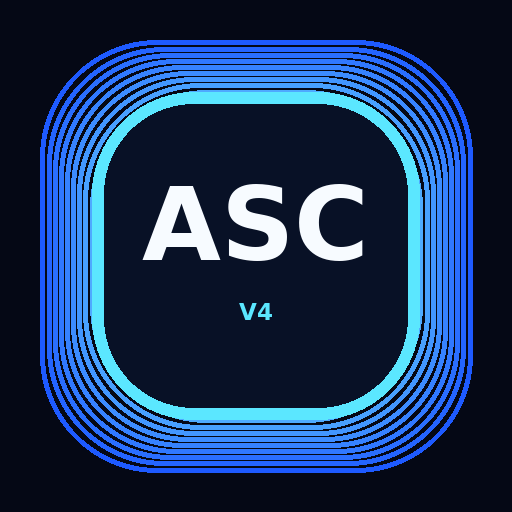
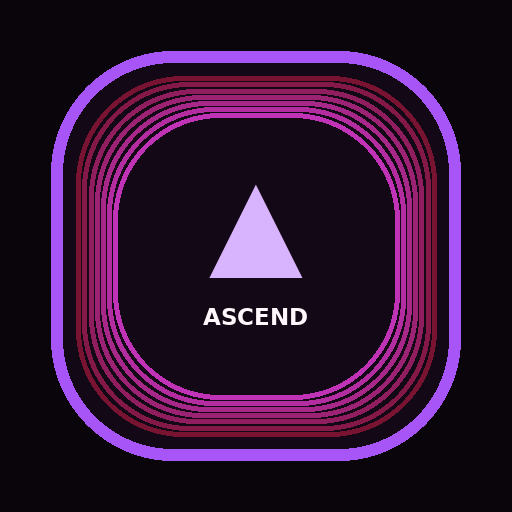
Add files via upload

diff --git a/index.html b/index.html
@@ -1,105 +1,115 @@
 <!doctype html>
 <html lang="ko">
 <head>
-  <meta charset="utf-8">
-  <meta name="viewport" content="width=device-width,initial-scale=1,viewport-fit=cover">
-  <meta name="theme-color" content="#050815">
-  <meta name="apple-mobile-web-app-capable" content="yes">
-  <title>ASCEND V4</title>
-  <link rel="manifest" href="manifest.json">
-  <link rel="stylesheet" href="style.css">
+<meta charset="utf-8">
+<meta name="viewport" content="width=device-width,initial-scale=1,viewport-fit=cover">
+<meta name="theme-color" content="#09050b">
+<meta name="apple-mobile-web-app-capable" content="yes">
+<title>ASCEND</title>
+<link rel="manifest" href="manifest.json">
+<link rel="stylesheet" href="style.css">
 </head>
 <body>
-<div class="mesh"></div><div class="glow a"></div><div class="glow b"></div>
+<div id="splash"><div class="mark">▲</div><h1>ASCEND</h1><p>Become Better Every Day</p></div>
+<div class="grain"></div><div class="blood"></div><div class="violet"></div>
 
 <main class="app">
-  <header class="head">
+<header class="head">
+  <div><p class="tag">PROJECT NOCTIS · V5</p><h1 id="hello">민준, 오늘도 올라가자</h1></div>
+  <button class="logo">▲</button>
+</header>
+
+<section id="home" class="page on">
+  <article class="aria card">
+    <div class="aria-head"><span>ARIA</span><b>AI Coach Beta</b></div>
+    <p id="ariaText">오늘 기록을 입력하면 ARIA가 운동 강도와 회복 상태를 분석해줄게.</p>
+  </article>
+
+  <article class="hero card">
     <div>
-      <p class="tag">ASCEND · V4</p>
-      <h1 id="hello">민준, 오늘도 올라가자</h1>
+      <p class="tag">TODAY SCORE</p>
+      <h2><span id="score">0</span><small>/100</small></h2>
+      <p id="scoreMsg">오늘 미션을 채우면 점수가 올라가.</p>
+      <div class="actions"><button class="primary" data-go="workout">Start</button><button class="secondary" data-go="log">Log</button></div>
     </div>
-    <button class="pill" id="exportBtn">백업</button>
-  </header>
+    <div class="ring"><svg viewBox="0 0 150 150"><circle class="rbg" cx="75" cy="75" r="62"/><circle id="ring" class="rfg" cx="75" cy="75" r="62"/></svg><b id="pct">0%</b></div>
+  </article>
 
-  <section id="home" class="page on">
-    <article class="hero card">
-      <div>
-        <p class="tag">TODAY SCORE</p>
-        <h2><span id="score">0</span>점</h2>
-        <p id="scoreMsg">오늘 기록을 입력하면 점수가 계산돼.</p>
-        <div class="actions">
-          <button class="mainbtn" data-tabto="workout">운동 시작</button>
-          <button class="subbtn" data-tabto="log">기록</button>
-        </div>
-      </div>
-      <div class="ring">
-        <svg viewBox="0 0 150 150"><circle class="rbg" cx="75" cy="75" r="62"/><circle class="rfg" id="ring" cx="75" cy="75" r="62"/></svg>
-        <b id="completePct">0%</b>
-      </div>
-    </article>
-
-    <section class="quick">
-      <article class="mini card"><span>Streak</span><b id="streak">0🔥</b><small>연속 기록</small></article>
-      <article class="mini card"><span>Level</span><b id="level">1</b><small id="xpText">0/100 XP</small></article>
-    </section>
-
-    <article class="goal card">
-      <div class="row"><div><p class="tag">CUTTING GOAL</p><h3>81kg → 73kg</h3></div><strong id="goalPct">0%</strong></div>
-      <div class="line"><i id="goalLine"></i></div>
-      <p id="goalMsg">아침 공복 체중을 입력해줘.</p>
-    </article>
-
-    <section class="metrics">
-      <label class="metric card"><span>Weight</span><div><input id="weight" type="number" step=".1" placeholder="80.9"><b>kg</b></div></label>
-      <label class="metric card"><span>Protein</span><div><input id="protein" type="number" step="5" placeholder="0"><b>/150g</b></div><em><i id="proteinBar"></i></em></label>
-      <label class="metric card"><span>Water</span><div><input id="water" type="number" step="100" placeholder="0"><b>/3000mL</b></div><em><i id="waterBar"></i></em></label>
-      <label class="metric card"><span>Sleep</span><div><input id="sleep" type="number" step=".5" placeholder="0"><b>h</b></div></label>
-    </section>
-
-    <article class="card checklist">
-      <div class="row"><h3>Daily System</h3><button class="tinybtn" id="saveDay">오늘 저장</button></div>
-      <label><input id="cWorkout" type="checkbox"> 운동 완료</label>
-      <label><input id="cCreatine" type="checkbox"> 크레아틴 3~5g</label>
-      <label><input id="cProtein" type="checkbox"> 프로틴 1스쿱</label>
-      <label><input id="cSkin" type="checkbox"> 운동 후 세안/샤워</label>
-      <label><input id="cSteps" type="checkbox"> 8,000보 이상</label>
-    </article>
+  <section class="quick">
+    <article class="mini card"><span>Streak</span><b id="streak">0🔥</b><small>daily save</small></article>
+    <article class="mini card"><span>Level</span><b id="level">1</b><small id="xpText">0/100 XP</small></article>
   </section>
 
-  <section id="workout" class="page">
-    <div class="sticky row"><div><p class="tag">SPLIT</p><h2>Workout</h2></div><select id="day"></select></div>
-    <div id="workoutList" class="list"></div>
+  <article class="goal card">
+    <div class="row"><div><p class="tag">CUTTING GOAL</p><h3>81kg → 73kg</h3></div><strong id="goalPct">0%</strong></div>
+    <div class="line"><i id="goalLine"></i></div><p id="goalMsg">아침 공복 체중을 입력해줘.</p>
+  </article>
+
+  <section class="metrics">
+    <label class="metric card"><span>Weight</span><div><input id="weight" type="number" step=".1" placeholder="80.9"><b>kg</b></div></label>
+    <label class="metric card"><span>Protein</span><div><input id="protein" type="number" step="5" placeholder="0"><b>/150g</b></div><em><i id="proteinBar"></i></em></label>
+    <label class="metric card"><span>Water</span><div><input id="water" type="number" step="100" placeholder="0"><b>/3000mL</b></div><em><i id="waterBar"></i></em></label>
+    <label class="metric card"><span>Sleep</span><div><input id="sleep" type="number" step=".5" placeholder="0"><b>h</b></div></label>
   </section>
 
-  <section id="log" class="page">
-    <div class="sticky"><p class="tag">OVERLOAD</p><h2>Training Log</h2></div>
-    <article class="card info"><b>자동 증량</b><p>3세트 모두 12회 이상이면 다음 운동 +2.5kg 추천. 8회 미만이면 감량 추천.</p></article>
-    <div id="logList"></div>
-  </section>
+  <article class="card checklist">
+    <div class="row"><h3>Daily System</h3><button class="tiny" id="saveDay">Save Day</button></div>
+    <label><input id="cWorkout" type="checkbox"> 운동 완료</label>
+    <label><input id="cCreatine" type="checkbox"> 크레아틴 3~5g</label>
+    <label><input id="cProtein" type="checkbox"> 프로틴 1스쿱</label>
+    <label><input id="cSkin" type="checkbox"> 운동 후 세안/샤워</label>
+    <label><input id="cSteps" type="checkbox"> 8,000보 이상</label>
+  </article>
+</section>
 
-  <section id="progress" class="page">
-    <div class="sticky"><p class="tag">PROGRESS</p><h2>Progress</h2></div>
-    <article class="card"><div class="row"><h3>Weight Trend</h3><button class="tinybtn" id="clearWeight">초기화</button></div><div id="chart" class="chart"></div></article>
-    <article class="card"><h3>Calendar</h3><div id="calendar" class="calendar"></div></article>
-    <article class="card"><h3>Physique Focus</h3><div class="focus"><span>Shoulder</span><i style="width:86%"></i><span>Back</span><i style="width:78%"></i><span>Arms</span><i style="width:70%"></i><span>Leanness</span><i style="width:46%"></i></div></article>
-  </section>
+<section id="workout" class="page">
+  <div class="sticky row"><div><p class="tag">WORKOUT 2.0</p><h2>Workout</h2></div><select id="day"></select></div>
+  <div id="workoutList" class="list"></div>
+</section>
 
-  <section id="guide" class="page">
-    <div class="sticky"><p class="tag">GUIDE</p><h2>Coach Notes</h2></div>
-    <article class="card note"><h3>어깨 넓이</h3><p>레터럴은 무게보다 자극. 승모가 먼저 뭉치면 팔을 낮게 들고 천천히 내려.</p></article>
-    <article class="card note"><h3>하체</h3><p>근육통보다 깊이, 하강 속도, RIR 1~2가 중요. 레그프레스는 무릎 잠그지 않기.</p></article>
-    <article class="card note"><h3>피부 고려 보충제</h3><p>WPI나 식물성 단백질 우선. WPC, 매스게이너, 당 많은 제품은 피하기.</p></article>
-  </section>
+<section id="log" class="page">
+  <div class="sticky"><p class="tag">OVERLOAD</p><h2>Training Log</h2></div>
+  <article class="card info"><b>ARIA Rule</b><p>3세트 모두 12회 이상이면 +2.5kg, 8회 미만이면 감량 추천. 수면이 부족하면 실패 직전까지 가지 마.</p></article>
+  <div id="logList"></div>
+</section>
 
-  <div class="timer" id="timer"><b id="timerText">00:00</b><button id="stop">정지</button></div>
+<section id="progress" class="page">
+  <div class="sticky"><p class="tag">PROGRESS+</p><h2>Progress</h2></div>
+  <article class="card"><div class="row"><h3>Weight Trend</h3><button class="tiny" id="clearWeight">Clear</button></div><div id="chart" class="chart"></div></article>
+  <article class="card"><h3>Calendar</h3><div id="calendar" class="calendar"></div></article>
+  <article class="card"><h3>ASCEND Focus</h3><div class="focus"><span>Shoulder</span><i style="width:86%"></i><span>Back</span><i style="width:78%"></i><span>Arms</span><i style="width:70%"></i><span>Leanness</span><i style="width:46%"></i></div></article>
+</section>
 
-  <nav class="tabs">
-    <button class="tab on" data-tab="home">⌂<span>Home</span></button>
-    <button class="tab" data-tab="workout">◆<span>Workout</span></button>
-    <button class="tab" data-tab="log">↗<span>Log</span></button>
-    <button class="tab" data-tab="progress">▥<span>Progress</span></button>
-    <button class="tab" data-tab="guide">?<span>Guide</span></button>
-  </nav>
+<section id="nutrition" class="page">
+  <div class="sticky"><p class="tag">NUTRITION</p><h2>Nutrition</h2></div>
+  <article class="card meal">
+    <h3>Food Memo</h3>
+    <textarea id="foodMemo" placeholder="오늘 먹은 음식 메모"></textarea>
+    <button class="primary wide" id="saveFood">Save Nutrition</button>
+  </article>
+  <article class="card info"><b>피부 고려 프로틴</b><p>여드름이 잘 나면 WPI나 식물성 단백질 우선. WPC, 매스게이너, 당 많은 제품은 피하기.</p></article>
+</section>
+
+<section id="journal" class="page">
+  <div class="sticky"><p class="tag">BODY JOURNAL</p><h2>Journal</h2></div>
+  <article class="card meal">
+    <h3>Body Note</h3>
+    <textarea id="bodyNote" placeholder="오늘 몸 상태, 얼굴 붓기, 운동 느낌 메모"></textarea>
+    <button class="primary wide" id="saveNote">Save Journal</button>
+  </article>
+  <article class="card info"><b>사진 비교</b><p>현재 버전은 메모 기반. V6 React 전환 후 카메라/사진 비교를 제대로 넣을 예정.</p></article>
+</section>
+
+<div class="timer" id="timer"><b id="timerText">00:00</b><button id="stop">정지</button></div>
+
+<nav class="tabs">
+  <button class="tab on" data-tab="home">⌂<span>Home</span></button>
+  <button class="tab" data-tab="workout">◆<span>Workout</span></button>
+  <button class="tab" data-tab="log">↗<span>Log</span></button>
+  <button class="tab" data-tab="progress">▥<span>Progress</span></button>
+  <button class="tab" data-tab="nutrition">◍<span>Food</span></button>
+  <button class="tab" data-tab="journal">✎<span>Journal</span></button>
+</nav>
 </main>
 <script src="app.js"></script>
 </body>

diff --git a/style.css b/style.css
@@ -1,16 +1,18 @@
 @import url('https://fonts.googleapis.com/css2?family=Inter:wght@500;600;700;800;900&display=swap');
-:root{--bg:#050815;--card:rgba(255,255,255,.09);--line:rgba(255,255,255,.13);--text:#f7fbff;--muted:#8b98ad;--soft:#c8d2e0;--blue:#3777ff;--cyan:#5be7ff;--green:#3cf2aa;--red:#ff6078;--shadow:0 24px 90px rgba(0,0,0,.48)}
-*{box-sizing:border-box;-webkit-tap-highlight-color:transparent}body{margin:0;background:var(--bg);color:var(--text);font-family:Inter,-apple-system,BlinkMacSystemFont,"Noto Sans KR",sans-serif}.mesh{position:fixed;inset:0;z-index:-3;background:linear-gradient(rgba(255,255,255,.025) 1px,transparent 1px),linear-gradient(90deg,rgba(255,255,255,.025) 1px,transparent 1px);background-size:34px 34px;mask-image:linear-gradient(to bottom,#000,transparent 80%)}.glow{position:fixed;border-radius:999px;filter:blur(42px);opacity:.55;z-index:-2;animation:float 8s ease-in-out infinite alternate}.a{width:280px;height:280px;top:-120px;left:-120px;background:#2458ff}.b{width:300px;height:300px;right:-150px;top:230px;background:#00d9ff;animation-delay:-3s}@keyframes float{to{transform:translate(30px,35px) scale(1.12)}}
-.app{max-width:540px;margin:auto;min-height:100vh;padding:18px 14px 105px}.head,.row{display:flex;align-items:center;justify-content:space-between;gap:12px}.head{margin:8px 0 18px}.tag{font-size:11px;letter-spacing:1.45px;color:var(--cyan);font-weight:900;margin:0 0 6px;text-transform:uppercase}h1,h2,h3,p{margin:0}h1{font-size:24px;letter-spacing:-1px;line-height:1.1}h2{font-size:30px;letter-spacing:-1px}h3{font-size:18px}.pill,.tinybtn{border:1px solid rgba(91,231,255,.32);background:rgba(91,231,255,.12);color:white;border-radius:16px;font-weight:900}.pill{height:46px;padding:0 14px}.tinybtn{padding:8px 10px}
-.page{display:none;animation:up .24s ease both}.page.on{display:block}@keyframes up{from{opacity:0;transform:translateY(8px)}to{opacity:1;transform:none}}.card{background:linear-gradient(180deg,rgba(255,255,255,.12),rgba(255,255,255,.055));border:1px solid var(--line);border-radius:30px;box-shadow:var(--shadow);backdrop-filter:blur(24px)}
-.hero{position:relative;overflow:hidden;display:flex;justify-content:space-between;gap:8px;padding:18px;min-height:205px;background:radial-gradient(circle at 10% 0,rgba(91,231,255,.22),transparent 35%),linear-gradient(135deg,rgba(255,255,255,.13),rgba(55,119,255,.1))}.hero h2{font-size:46px}.hero p:not(.tag){color:var(--soft);font-size:14px;margin-top:4px}.actions{display:flex;gap:9px;margin-top:24px}.mainbtn,.subbtn{border:0;border-radius:18px;padding:12px 14px;color:white;font-weight:900}.mainbtn{background:linear-gradient(135deg,var(--cyan),var(--blue));box-shadow:0 12px 32px rgba(55,119,255,.32)}.subbtn{background:rgba(255,255,255,.09);border:1px solid var(--line)}
-.ring{width:140px;min-width:140px;display:grid;place-items:center;position:relative;align-self:center}.ring svg{width:140px;height:140px;transform:rotate(-90deg)}.rbg,.rfg{fill:none;stroke-width:12}.rbg{stroke:rgba(255,255,255,.13)}.rfg{stroke:var(--cyan);stroke-linecap:round;stroke-dasharray:389.6;stroke-dashoffset:389.6;transition:.4s}.ring b{position:absolute;font-size:26px}
-.quick,.metrics{display:grid;grid-template-columns:1fr 1fr;gap:11px;margin:13px 0}.mini,.metric{padding:15px;min-height:112px;display:flex;flex-direction:column;justify-content:space-between}.mini span,.metric span{font-size:13px;color:var(--muted);font-weight:900}.mini b{font-size:30px}.mini small,.metric small,#goalMsg{color:var(--muted);font-size:12px}.goal{padding:17px;margin-bottom:13px}.goal strong{font-size:28px;color:var(--green)}.line,.metric em{display:block;height:9px;background:rgba(255,255,255,.12);border-radius:999px;overflow:hidden}.line{margin:14px 0 10px}.line i,.metric em i{display:block;height:100%;width:0;background:linear-gradient(90deg,var(--green),var(--cyan),var(--blue));border-radius:999px;transition:.35s}
+:root{--bg:#09050b;--card:rgba(255,255,255,.082);--line:rgba(255,255,255,.13);--text:#fff7fb;--muted:#a794aa;--soft:#dccbdc;--red:#8b1e2d;--crimson:#c02645;--purple:#7c3aed;--violet:#a855f7;--green:#34d399;--shadow:0 26px 90px rgba(0,0,0,.55)}
+*{box-sizing:border-box;-webkit-tap-highlight-color:transparent}body{margin:0;background:var(--bg);color:var(--text);font-family:Inter,-apple-system,BlinkMacSystemFont,"Noto Sans KR",sans-serif}.grain{position:fixed;inset:0;pointer-events:none;opacity:.16;background-image:radial-gradient(rgba(255,255,255,.18) 1px,transparent 1px);background-size:4px 4px;z-index:-1}.blood,.violet{position:fixed;border-radius:999px;filter:blur(48px);opacity:.58;z-index:-2;animation:float 9s ease-in-out infinite alternate}.blood{width:330px;height:330px;background:#7f1026;top:-120px;left:-120px}.violet{width:320px;height:320px;background:#5b21b6;right:-150px;top:230px;animation-delay:-3s}@keyframes float{to{transform:translate(35px,30px) scale(1.12)}}
+#splash{position:fixed;inset:0;background:radial-gradient(circle at 50% 35%,rgba(124,58,237,.25),transparent 35%),#09050b;z-index:100;display:grid;place-items:center;text-align:center;animation:hide 2.2s ease forwards}.mark{font-size:54px;color:var(--violet);text-shadow:0 0 35px var(--purple)}#splash h1{font-size:42px;letter-spacing:6px;margin:8px 0}#splash p{color:var(--soft)}@keyframes hide{0%,75%{opacity:1;visibility:visible}100%{opacity:0;visibility:hidden}}
+.app{max-width:560px;margin:auto;min-height:100vh;padding:18px 14px 112px}.head,.row{display:flex;align-items:center;justify-content:space-between;gap:12px}.head{margin:8px 0 18px}.tag{font-size:11px;letter-spacing:1.45px;color:#d8b4fe;font-weight:900;margin:0 0 6px;text-transform:uppercase}h1,h2,h3,p{margin:0}h1{font-size:24px;letter-spacing:-1px;line-height:1.1}h2{font-size:30px;letter-spacing:-1px}h3{font-size:18px}.logo,.tiny{border:1px solid rgba(168,85,247,.38);background:rgba(168,85,247,.13);color:white;border-radius:16px;font-weight:900}.logo{height:46px;width:46px;font-size:20px}.tiny{padding:8px 10px}
+.page{display:none;animation:up .24s ease both}.page.on{display:block}@keyframes up{from{opacity:0;transform:translateY(8px)}to{opacity:1;transform:none}}.card{background:linear-gradient(180deg,rgba(255,255,255,.115),rgba(255,255,255,.045));border:1px solid var(--line);border-radius:30px;box-shadow:var(--shadow);backdrop-filter:blur(24px)}
+.aria{padding:16px;margin-bottom:13px;border-color:rgba(168,85,247,.28);background:linear-gradient(135deg,rgba(124,58,237,.18),rgba(139,30,45,.10))}.aria-head{display:flex;align-items:center;justify-content:space-between;margin-bottom:10px}.aria span{font-size:18px;font-weight:900;color:#e9d5ff}.aria b{font-size:12px;color:var(--muted)}.aria p{color:var(--soft);line-height:1.55;font-size:14px}
+.hero{position:relative;overflow:hidden;display:flex;justify-content:space-between;gap:8px;padding:18px;min-height:205px;background:radial-gradient(circle at 10% 0,rgba(192,38,69,.28),transparent 35%),linear-gradient(135deg,rgba(124,58,237,.18),rgba(139,30,45,.12))}.hero h2{font-size:46px}.hero h2 small{font-size:18px;color:var(--muted)}.hero p:not(.tag){color:var(--soft);font-size:14px;margin-top:4px}.actions{display:flex;gap:9px;margin-top:24px}.primary,.secondary{border:0;border-radius:18px;padding:12px 14px;color:white;font-weight:900}.primary{background:linear-gradient(135deg,var(--crimson),var(--purple));box-shadow:0 12px 32px rgba(124,58,237,.32)}.secondary{background:rgba(255,255,255,.09);border:1px solid var(--line)}.wide{width:100%;margin-top:12px}
+.ring{width:140px;min-width:140px;display:grid;place-items:center;position:relative;align-self:center}.ring svg{width:140px;height:140px;transform:rotate(-90deg)}.rbg,.rfg{fill:none;stroke-width:12}.rbg{stroke:rgba(255,255,255,.13)}.rfg{stroke:var(--violet);stroke-linecap:round;stroke-dasharray:389.6;stroke-dashoffset:389.6;transition:.4s}.ring b{position:absolute;font-size:26px}
+.quick,.metrics{display:grid;grid-template-columns:1fr 1fr;gap:11px;margin:13px 0}.mini,.metric{padding:15px;min-height:112px;display:flex;flex-direction:column;justify-content:space-between}.mini span,.metric span{font-size:13px;color:var(--muted);font-weight:900}.mini b{font-size:30px}.mini small,.metric small,#goalMsg{color:var(--muted);font-size:12px}.goal{padding:17px;margin:13px 0}.goal strong{font-size:28px;color:#f0abfc}.line,.metric em{display:block;height:9px;background:rgba(255,255,255,.12);border-radius:999px;overflow:hidden}.line{margin:14px 0 10px}.line i,.metric em i{display:block;height:100%;width:0;background:linear-gradient(90deg,var(--crimson),var(--violet));border-radius:999px;transition:.35s}
 .metric div{display:flex;align-items:baseline;gap:6px}.metric input{width:90px;max-width:100%;border:0;background:transparent;outline:none;color:white;font-size:25px;font-weight:900;padding:0}.metric b{font-size:13px;color:var(--soft)}
-.checklist,.info,.note{padding:17px;margin-bottom:13px}.checklist label{display:flex;gap:12px;align-items:center;padding:13px 0;border-top:1px solid rgba(255,255,255,.08);color:var(--soft);font-weight:800}.checklist label:first-of-type{border-top:0}input[type=checkbox]{appearance:none;width:23px;height:23px;border-radius:9px;border:1px solid rgba(255,255,255,.25);background:rgba(255,255,255,.07);position:relative;flex:0 0 auto}input[type=checkbox]:checked{background:linear-gradient(135deg,var(--green),var(--blue));border:0}input[type=checkbox]:checked:after{content:"✓";position:absolute;inset:0;display:grid;place-items:center;font-weight:900}
-.sticky{position:sticky;top:0;z-index:5;padding:10px 0 12px;background:linear-gradient(180deg,rgba(5,8,21,.97),rgba(5,8,21,.75),transparent);backdrop-filter:blur(14px)}select{max-width:220px;background:rgba(255,255,255,.08);border:1px solid var(--line);color:white;border-radius:16px;padding:11px;font-weight:900}.list{display:grid;gap:12px}.exercise{padding:15px;border-radius:27px;background:linear-gradient(145deg,rgba(255,255,255,.115),rgba(255,255,255,.055));border:1px solid var(--line);box-shadow:0 16px 48px rgba(0,0,0,.28)}.exercise.done{border-color:rgba(60,242,170,.45);background:linear-gradient(145deg,rgba(60,242,170,.14),rgba(255,255,255,.055))}.exmain{display:flex;gap:12px;align-items:flex-start}.icon{width:54px;height:54px;border-radius:19px;background:rgba(91,231,255,.13);border:1px solid rgba(91,231,255,.25);display:grid;place-items:center;font-size:23px;flex:0 0 auto}.extitle{flex:1}.extitle h3{font-size:17px;margin-bottom:7px}.chips{display:flex;flex-wrap:wrap;gap:7px}.chip{font-size:11px;font-weight:900;color:#e2f9ff;background:rgba(91,231,255,.12);border:1px solid rgba(91,231,255,.22);padding:6px 8px;border-radius:999px}details{margin-top:12px;color:var(--soft);line-height:1.55;font-size:14px}summary{color:var(--cyan);font-weight:900}.timerrow{display:flex;gap:7px;flex-wrap:wrap;margin-top:12px}.timerrow button,.save{border:1px solid var(--line);background:rgba(255,255,255,.09);color:white;font-weight:900;border-radius:14px;padding:9px 10px}
-.info p,.note p{color:var(--soft);line-height:1.6;font-size:14px;margin-top:7px}.logcard{padding:16px;margin-bottom:12px}.rec{color:var(--green);font-weight:900;font-size:13px;margin:7px 0 12px}.setgrid{display:grid;grid-template-columns:1.15fr repeat(3,1fr);gap:8px}.setgrid input{width:100%;background:rgba(255,255,255,.075);border:1px solid var(--line);color:white;border-radius:14px;padding:11px 9px;font-weight:900;outline:none}.save{width:100%;margin-top:10px;background:linear-gradient(135deg,rgba(91,231,255,.24),rgba(55,119,255,.22))}
-.chart{height:110px;display:flex;align-items:flex-end;gap:8px;padding-top:18px}.bar{flex:1;min-width:12px;border-radius:999px 999px 6px 6px;background:linear-gradient(180deg,var(--cyan),var(--blue));position:relative}.bar span{position:absolute;bottom:calc(100% + 5px);left:50%;transform:translateX(-50%);font-size:10px;color:var(--muted)}.calendar{display:grid;grid-template-columns:repeat(7,1fr);gap:8px;margin-top:12px}.daydot{aspect-ratio:1;border-radius:14px;background:rgba(255,255,255,.07);border:1px solid var(--line);display:grid;place-items:center;color:var(--muted);font-size:12px;font-weight:900}.daydot.done{background:rgba(60,242,170,.16);color:white;border-color:rgba(60,242,170,.35)}.focus{display:grid;gap:9px;margin-top:12px}.focus span{color:var(--muted);font-size:13px;font-weight:900}.focus i{height:9px;border-radius:999px;background:linear-gradient(90deg,var(--cyan),var(--blue))}
-.timer{position:fixed;left:50%;bottom:92px;transform:translateX(-50%) translateY(140px);opacity:0;z-index:40;width:min(330px,calc(100% - 30px));border:1px solid rgba(91,231,255,.35);border-radius:24px;background:rgba(6,15,32,.92);box-shadow:0 18px 52px rgba(0,0,0,.45);backdrop-filter:blur(18px);padding:12px;display:flex;align-items:center;justify-content:space-between;transition:.28s}.timer.show{transform:translateX(-50%) translateY(0);opacity:1}.timer b{font-size:27px}.timer button{border:0;background:rgba(255,255,255,.1);color:white;font-weight:900;border-radius:14px;padding:9px 12px}
-.tabs{position:fixed;left:50%;bottom:12px;transform:translateX(-50%);width:min(520px,calc(100% - 20px));display:grid;grid-template-columns:repeat(5,1fr);gap:6px;padding:8px;border-radius:28px;background:rgba(7,12,27,.84);border:1px solid var(--line);box-shadow:0 18px 60px rgba(0,0,0,.45);backdrop-filter:blur(24px);z-index:50}.tab{border:0;background:transparent;color:var(--muted);font-size:16px;font-weight:900;border-radius:20px;padding:8px 0;display:flex;flex-direction:column;align-items:center;gap:2px}.tab span{font-size:10px}.tab.on{background:linear-gradient(135deg,rgba(91,231,255,.18),rgba(55,119,255,.18));color:white}
-@media(max-width:390px){.hero{flex-direction:column}.ring{align-self:flex-end;margin-top:-84px}.quick,.metrics{grid-template-columns:1fr}h1{font-size:22px}}
+.checklist,.info,.meal{padding:17px;margin-bottom:13px}.checklist label{display:flex;gap:12px;align-items:center;padding:13px 0;border-top:1px solid rgba(255,255,255,.08);color:var(--soft);font-weight:800}.checklist label:first-of-type{border-top:0}input[type=checkbox]{appearance:none;width:23px;height:23px;border-radius:9px;border:1px solid rgba(255,255,255,.25);background:rgba(255,255,255,.07);position:relative;flex:0 0 auto}input[type=checkbox]:checked{background:linear-gradient(135deg,var(--crimson),var(--purple));border:0}input[type=checkbox]:checked:after{content:"✓";position:absolute;inset:0;display:grid;place-items:center;font-weight:900}
+.sticky{position:sticky;top:0;z-index:5;padding:10px 0 12px;background:linear-gradient(180deg,rgba(9,5,11,.97),rgba(9,5,11,.75),transparent);backdrop-filter:blur(14px)}select{max-width:220px;background:rgba(255,255,255,.08);border:1px solid var(--line);color:white;border-radius:16px;padding:11px;font-weight:900}.list{display:grid;gap:12px}.exercise{padding:15px;border-radius:27px;background:linear-gradient(145deg,rgba(255,255,255,.11),rgba(255,255,255,.045));border:1px solid var(--line);box-shadow:0 16px 48px rgba(0,0,0,.28)}.exercise.done{border-color:rgba(192,38,69,.55);background:linear-gradient(145deg,rgba(192,38,69,.16),rgba(124,58,237,.07))}.exmain{display:flex;gap:12px;align-items:flex-start}.icon{width:54px;height:54px;border-radius:19px;background:rgba(168,85,247,.13);border:1px solid rgba(168,85,247,.28);display:grid;place-items:center;font-size:23px;flex:0 0 auto}.extitle{flex:1}.extitle h3{font-size:17px;margin-bottom:7px}.chips{display:flex;flex-wrap:wrap;gap:7px}.chip{font-size:11px;font-weight:900;color:#f5e8ff;background:rgba(168,85,247,.12);border:1px solid rgba(168,85,247,.22);padding:6px 8px;border-radius:999px}details{margin-top:12px;color:var(--soft);line-height:1.55;font-size:14px}summary{color:#e9d5ff;font-weight:900}.timerrow{display:flex;gap:7px;flex-wrap:wrap;margin-top:12px}.timerrow button,.save{border:1px solid var(--line);background:rgba(255,255,255,.09);color:white;font-weight:900;border-radius:14px;padding:9px 10px}
+.info p{color:var(--soft);line-height:1.6;font-size:14px;margin-top:7px}.logcard{padding:16px;margin-bottom:12px}.rec{color:#f0abfc;font-weight:900;font-size:13px;margin:7px 0 12px}.setgrid{display:grid;grid-template-columns:1.15fr repeat(3,1fr);gap:8px}.setgrid input,textarea{width:100%;background:rgba(255,255,255,.075);border:1px solid var(--line);color:white;border-radius:14px;padding:11px 9px;font-weight:800;outline:none}textarea{height:160px;resize:vertical;margin-top:12px;line-height:1.5}.save{width:100%;margin-top:10px;background:linear-gradient(135deg,rgba(192,38,69,.24),rgba(124,58,237,.22))}
+.chart{height:110px;display:flex;align-items:flex-end;gap:8px;padding-top:18px}.bar{flex:1;min-width:12px;border-radius:999px 999px 6px 6px;background:linear-gradient(180deg,var(--violet),var(--crimson));position:relative}.bar span{position:absolute;bottom:calc(100% + 5px);left:50%;transform:translateX(-50%);font-size:10px;color:var(--muted)}.calendar{display:grid;grid-template-columns:repeat(7,1fr);gap:8px;margin-top:12px}.daydot{aspect-ratio:1;border-radius:14px;background:rgba(255,255,255,.07);border:1px solid var(--line);display:grid;place-items:center;color:var(--muted);font-size:12px;font-weight:900}.daydot.done{background:rgba(192,38,69,.18);color:white;border-color:rgba(168,85,247,.35)}.focus{display:grid;gap:9px;margin-top:12px}.focus span{color:var(--muted);font-size:13px;font-weight:900}.focus i{height:9px;border-radius:999px;background:linear-gradient(90deg,var(--crimson),var(--violet))}
+.timer{position:fixed;left:50%;bottom:92px;transform:translateX(-50%) translateY(140px);opacity:0;z-index:40;width:min(330px,calc(100% - 30px));border:1px solid rgba(168,85,247,.38);border-radius:24px;background:rgba(18,8,22,.94);box-shadow:0 18px 52px rgba(0,0,0,.45);backdrop-filter:blur(18px);padding:12px;display:flex;align-items:center;justify-content:space-between;transition:.28s}.timer.show{transform:translateX(-50%) translateY(0);opacity:1}.timer b{font-size:27px}.timer button{border:0;background:rgba(255,255,255,.1);color:white;font-weight:900;border-radius:14px;padding:9px 12px}
+.tabs{position:fixed;left:50%;bottom:12px;transform:translateX(-50%);width:min(540px,calc(100% - 20px));display:grid;grid-template-columns:repeat(6,1fr);gap:5px;padding:8px;border-radius:28px;background:rgba(15,7,18,.86);border:1px solid var(--line);box-shadow:0 18px 60px rgba(0,0,0,.45);backdrop-filter:blur(24px);z-index:50}.tab{border:0;background:transparent;color:var(--muted);font-size:15px;font-weight:900;border-radius:20px;padding:8px 0;display:flex;flex-direction:column;align-items:center;gap:2px}.tab span{font-size:9px}.tab.on{background:linear-gradient(135deg,rgba(192,38,69,.20),rgba(124,58,237,.22));color:white}
+@media(max-width:390px){.hero{flex-direction:column}.ring{align-self:flex-end;margin-top:-84px}.quick,.metrics{grid-template-columns:1fr}h1{font-size:22px}.tabs{grid-template-columns:repeat(3,1fr)}.app{padding-bottom:170px}}

diff --git a/sw.js b/sw.js
@@ -1,1 +1,1 @@
-const CACHE="ascend-v4";const ASSETS=["./","./index.html","./style.css","./app.js","./manifest.json","./icon-192.png","./icon-512.png"];self.addEventListener("install",e=>e.waitUntil(caches.open(CACHE).then(c=>c.addAll(ASSETS))));self.addEventListener("activate",e=>e.waitUntil(caches.keys().then(keys=>Promise.all(keys.filter(k=>k!==CACHE).map(k=>caches.delete(k))))));self.addEventListener("fetch",e=>e.respondWith(caches.match(e.request).then(r=>r||fetch(e.request))));
+const CACHE="ascend-noctis-v5";const ASSETS=["./","./index.html","./style.css","./app.js","./manifest.json","./icon-192.png","./icon-512.png"];self.addEventListener("install",e=>e.waitUntil(caches.open(CACHE).then(c=>c.addAll(ASSETS))));self.addEventListener("activate",e=>e.waitUntil(caches.keys().then(keys=>Promise.all(keys.filter(k=>k!==CACHE).map(k=>caches.delete(k))))));self.addEventListener("fetch",e=>e.respondWith(caches.match(e.request).then(r=>r||fetch(e.request))));